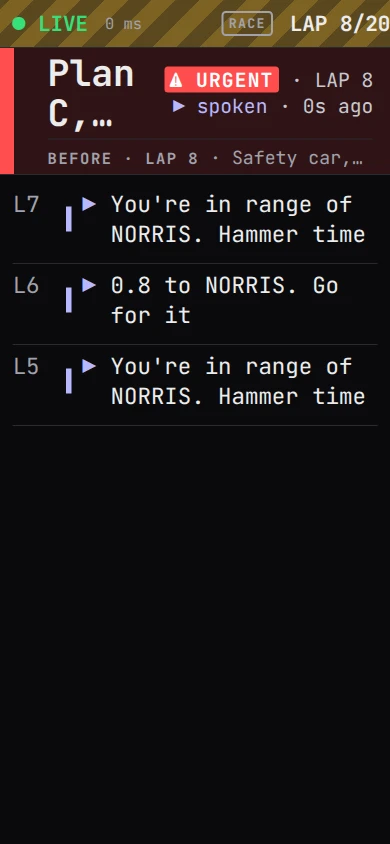
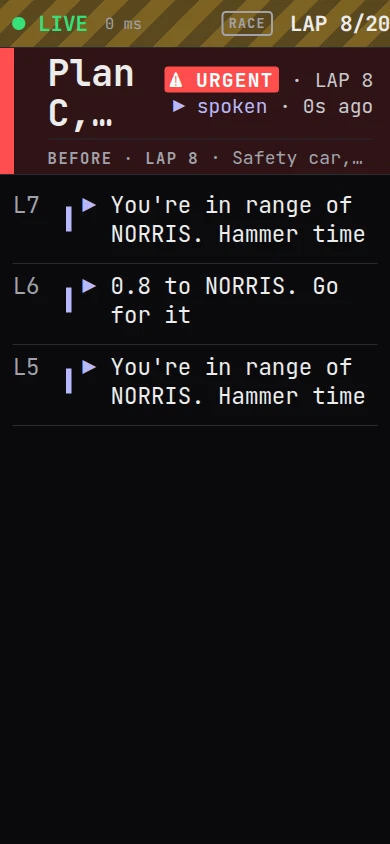
docs: retake phone shots and update final-lap caption

diff --git a/docs/index.html b/docs/index.html
@@ -297,7 +297,7 @@ function overview() {
     ["Race", [
       ["race-duel", "Battle", "The battle card lists the cars ahead and behind, each with its state, gap and gap rail."],
       ["race-box-call", "Box call", "An urgent call turns the banner red. The right zone puts the box call and pit window first."],
-      ["race-final-lap", "Final lap", "The last-lap call gives the position. Hot tyres turn red."]
+      ["race-final-lap", "Final lap", "The last-lap call names the car ahead and the gap."]
     ]],
     ["On the phone", [
       ["phone-race", "Phone race page", "The race page on a phone shows the call, tyres, fuel and strategy, plus the button that arms phone radio."],
